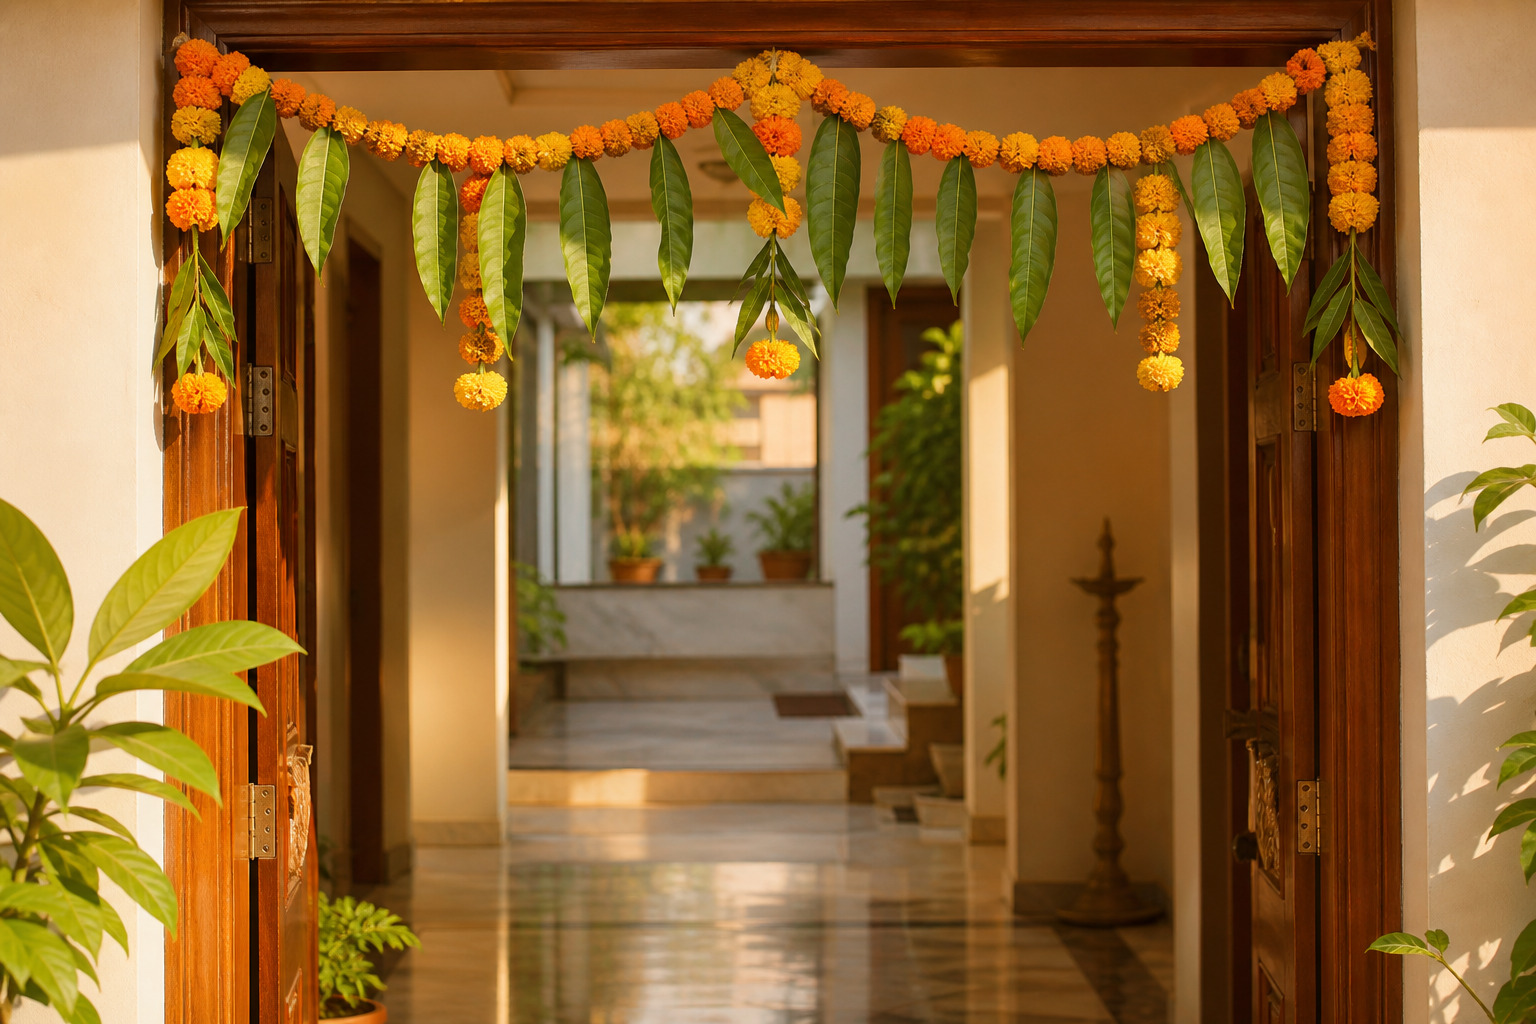
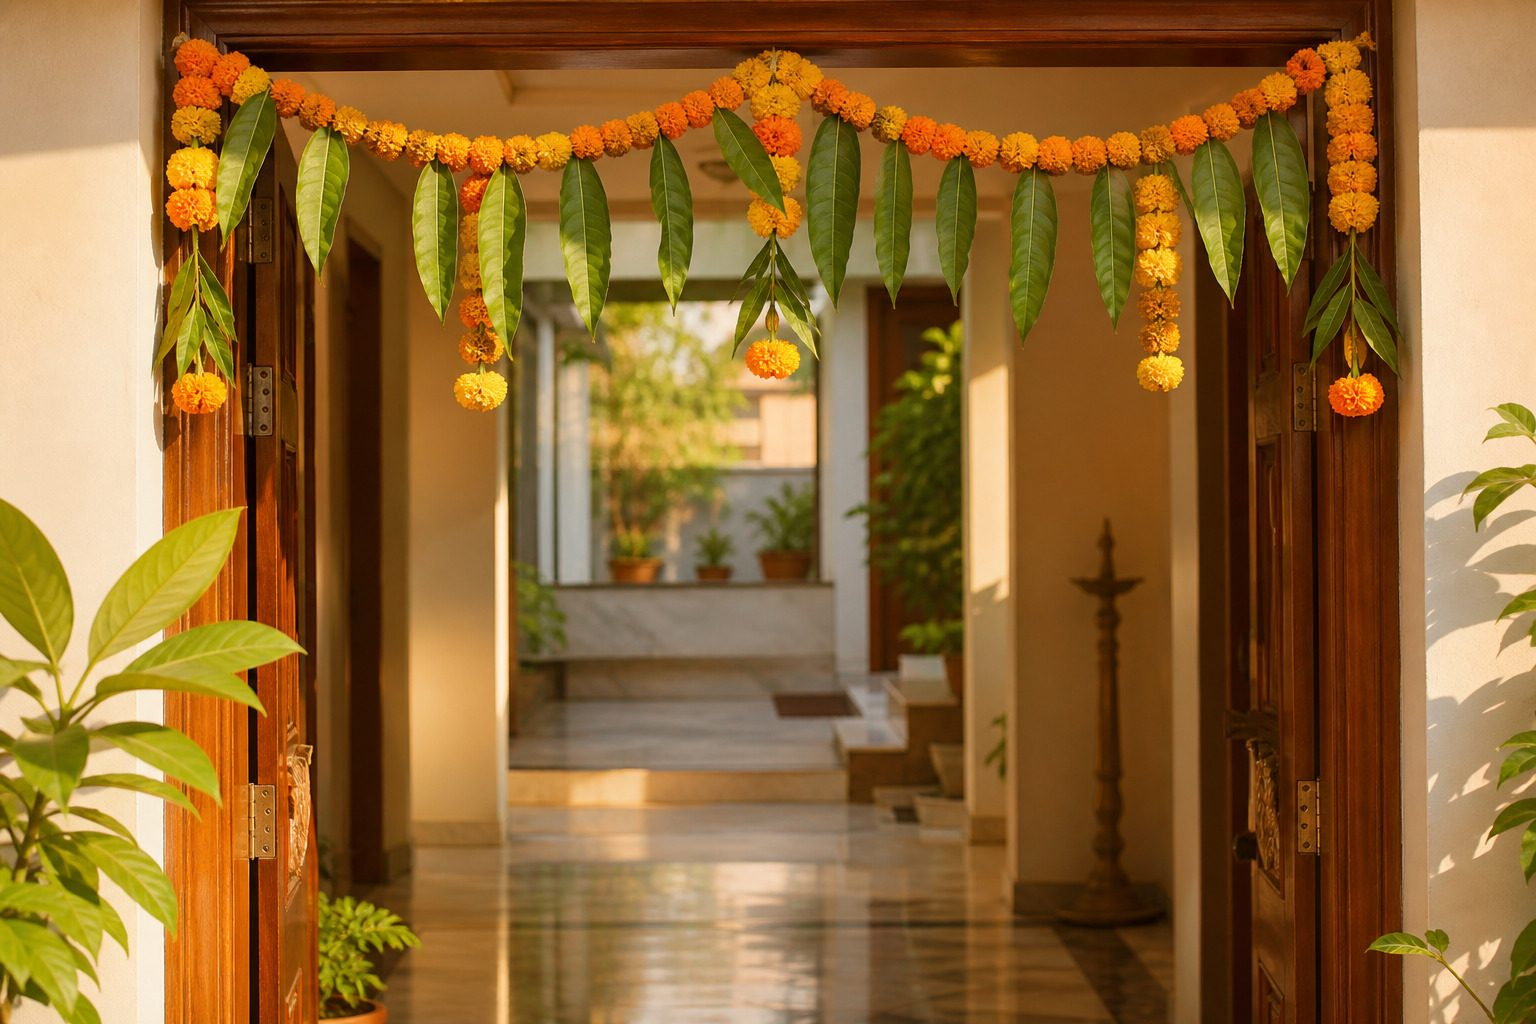
Compress source images 51% and drop duplicate hero poster fetch
- Recompressed all landing-page JPEGs (quality 82, progressive):
  4.7MB -> 2.3MB total, no visible loss at display sizes. Browsers
  still receive AVIF/WebP via the next/image optimizer; .jpg source
  filenames are kept as the build sheet's image-SEO lever
- Removed the hero <video> poster attribute — the optimized <Image>
  behind the video already acts as the placeholder, so the raw JPEG
  was downloaded twice

https://claude.ai/code/session_0182GooGnnUofkL3tvCUnq4q

Changed region(s): [[0.875, 0.375, 0.9062, 0.4062]]

diff --git a/lumina/src/components/sections/Hero.tsx b/lumina/src/components/sections/Hero.tsx
@@ -41,6 +41,8 @@ export function Hero() {
           sizes="100vw"
           className="object-cover"
         />
+        {/* No poster attr: the optimized <Image> behind the video already
+            serves as the placeholder, avoiding a duplicate raw-JPEG fetch */}
         <video
           ref={videoRef}
           className="absolute inset-0 w-full h-full object-cover motion-reduce:hidden"
@@ -49,7 +51,6 @@ export function Hero() {
           loop
           playsInline
           preload="metadata"
-          poster={HERO_POSTER}
         >
           <source src="/videos/havan-flame-loop.mp4" type="video/mp4" />
         </video>
